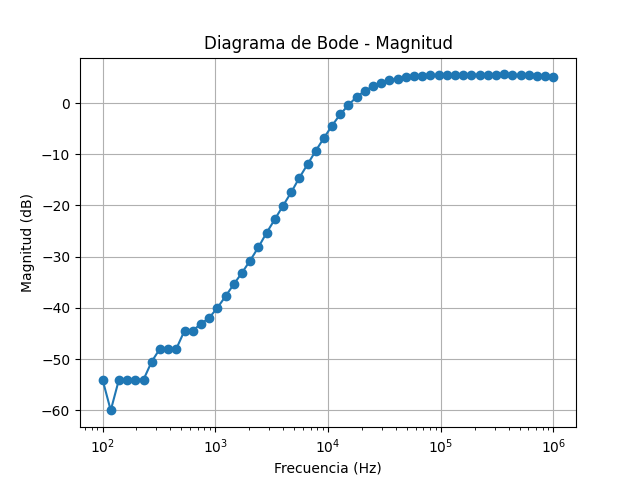
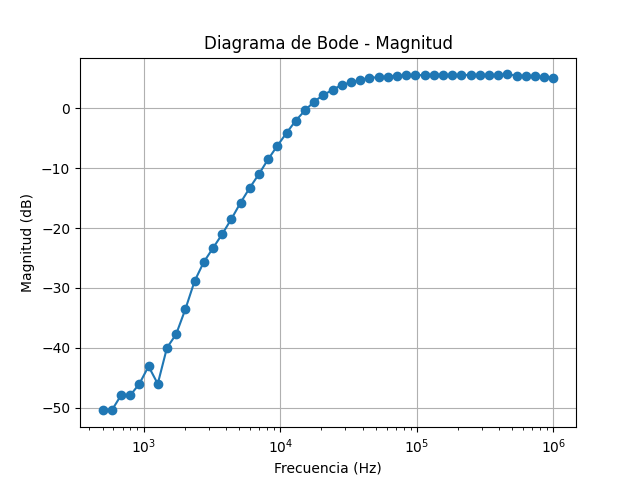
sesion2

diff --git a/P1.py b/P1.py
@@ -11,11 +11,14 @@ instrumento=resources.open_resource('visa://155.210.95.128/USB0::0x0957::0x179B:
 
 
 # Parámetros de la medición
-pasos = 56
+pasos1=30
+pasos2=0
+pasos = pasos1+pasos2
 Vi=1
-fpot1=2
-fpot2=6
-freq=np.logspace(np.log10(10**fpot1), np.log10(10**fpot2), pasos)
+f1=10
+fmid=1e7
+f2=fmid
+freq=np.concatenate((np.logspace(np.log10(f1), np.log10(fmid), pasos1), np.logspace(np.log10(fmid), np.log10(f2), pasos2)))
 avg=8
 
 instrumento.timeout=5000
@@ -23,7 +26,7 @@ instrumento.timeout=5000
 
 
 # Archivo de datos
-file=open(f'Bode/flog{fpot1}-{fpot2}_steps{pasos}_avg{avg}_Vin{Vi}.txt', 'w')
+file=open(f'Bode/flog{f1}-{fmid}-{f2}_steps{pasos}_avg{avg}_Vin{Vi}.txt', 'w')
 
 
 # Generar señal

diff --git a/P1_plots.py b/P1_plots.py
@@ -3,6 +3,6 @@ import matplotlib.pyplot as plt
 import Analysis as A
 import Plotting as P
 
-freq, vi, magn, phase = np.loadtxt('Bode/flog2-6_steps56_avg8_Vin1.txt', unpack=True)
+freq, vi, magn, phase = np.loadtxt('Bode/flog10-10000000.0-10000000.0_steps30_avg8_Vin1.txt', unpack=True)
 
-P.bode_plots(freq, magn, phase, directory='Bode/8', show=True)
+P.bode_plots(freq, magn, phase, directory='Bode/30st', show=True)

diff --git a/Plotting.py b/Plotting.py
@@ -14,6 +14,9 @@ def bode_magnitude(freq, magn, directory=None, show=True):
     plt.plot(freq, log_magn, marker='o', linestyle='-')
     plt.xscale('log')
 
+    x=np.log(np.logspace(np.log10(min(freq)), np.log10(1e4), 100))
+    #plt.plot(x, 20*x)
+
     if directory is not None:
         plt.savefig(directory+'Bode_Magnitud.png')
     if show:
